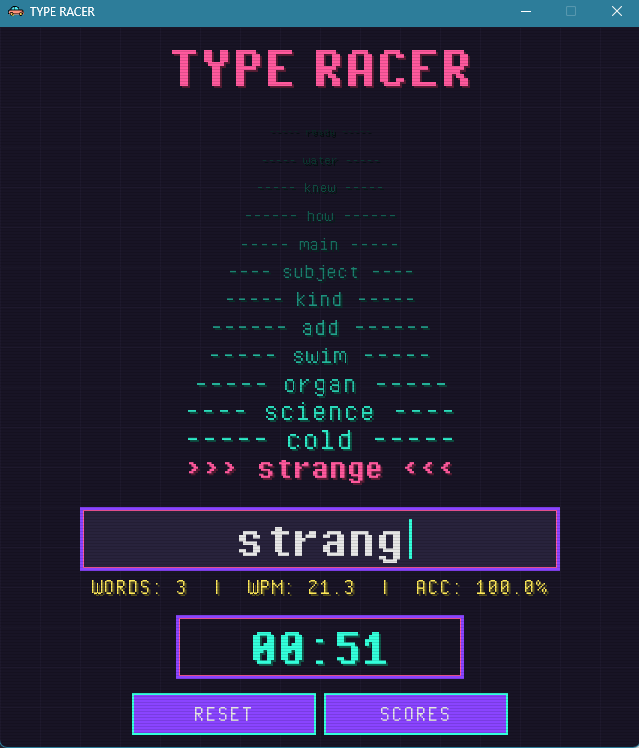
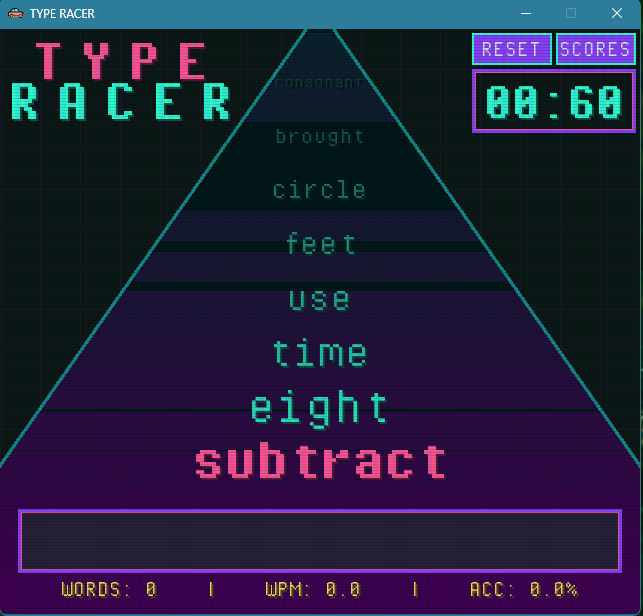
2025-11-16

diff --git a/src/game.py b/src/game.py
@@ -23,7 +23,7 @@ BASE_HEIGHT = 586
 FPS = 30
 
 # Retro green phosphor CRT colors
-CRT_BLACK = (10, 12, 10)
+CRT_BLACK = (20, 24, 20)
 CRT_GREEN = (51, 255, 51)
 CRT_GREEN_DIM = (20, 120, 20)
 CRT_GREEN_BRIGHT = (102, 255, 102)
@@ -31,7 +31,7 @@ CRT_AMBER = (255, 176, 0)
 CRT_AMBER_DIM = (153, 102, 0)
 
 # Alternative retro palette
-RETRO_BG = (24, 20, 37)
+RETRO_BG = (12, 26, 24)
 RETRO_BLUE = (76, 132, 255)
 RETRO_PINK = (255, 89, 157)
 RETRO_PURPLE = (138, 68, 255)
@@ -280,7 +280,7 @@ class TypeRacerGame:
             cursor.execute('''
                 SELECT wpm, accuracy, words_typed, date_time
                 FROM scores
-                ORDER BY date_time DESC
+                ORDER BY wpm DESC
                 LIMIT 20
             ''')
             return cursor.fetchall()
@@ -490,21 +490,23 @@ class TypeRacerGame:
         """Draw the road of upcoming words with retro 3D perspective effect - bottom to top"""
 
         mod = global_mod.current
-        road_w = INPUT_BOX_WIDTH // 2 - 2
-        road_h = 480
+        road_w = BASE_WIDTH // 1.5
+        road_h = BASE_HEIGHT
         road_y = -4
 
         pts = [
-            (BASE_WIDTH // 2 - 10, road_y),
+            (BASE_WIDTH // 2 - 12, road_y),
             (BASE_WIDTH // 2 - road_w, road_h),
-            (BASE_WIDTH // 2 + road_w, road_h),
+            (BASE_WIDTH // 2 + road_w - 2, road_h),
             (BASE_WIDTH // 2 + 10, road_y),
         ]
 
-        t = pygame.time.get_ticks()
 
-        bottom_color = (48, 0, 84)
-        top_color = (2, 33, 24)
+        t = pygame.time.get_ticks()
+        pygame.draw.polygon(self.screen, (0, 24, 26), pts)
+
+        bottom_color = (64, 0, 84)
+        top_color = (12, 33, 45)
 
         w = BASE_WIDTH
         h = road_h - road_y
@@ -514,10 +516,12 @@ class TypeRacerGame:
 
         grad = pygame.Surface((w, h), pygame.SRCALPHA)
 
-        speed = 12
-        scroll = (t * speed // 1000) % band_height
+        speed = 28
+        scroll = (t * speed // 3600)
+
 
         for i in range(band_count):
+            rando = int(random.random() * 24)
             tcol = i / (band_count - 1)
             r = int(top_color[0] * (1 - tcol) + bottom_color[0] * tcol)
             g = int(top_color[1] * (1 - tcol) + bottom_color[1] * tcol)
@@ -525,10 +529,11 @@ class TypeRacerGame:
 
             # perspective exaggeration per band
             # deeper bands move faster
-            offset = (mod + scroll * (i - 1) // 2) % band_height
+            offset = (mod + scroll * (1 - i) // 2) % band_height
 
             y0 = i * band_height + offset
-            grad.fill((r, g, b, 255), pygame.Rect(0, y0, w, band_height))
+
+            grad.fill((r, g, b), pygame.Rect(0, y0 + offset + mod, w, min(48, max(12, band_height - offset // 2 - mod + rando))))
 
         # mask polygon
         mask = pygame.Surface((w, h), pygame.SRCALPHA)
@@ -538,7 +543,9 @@ class TypeRacerGame:
         grad.blit(mask, (0, 0), special_flags=pygame.BLEND_RGBA_MULT)
 
         self.screen.blit(grad, (0, road_y))
-        pygame.draw.polygon(self.screen, (80, 70, 92), pts, 2)
+
+
+        pygame.draw.polygon(self.screen, (20, 140, 140), pts, 4)
 
         words = self.get_upcoming_words(8)
 
@@ -678,11 +685,11 @@ class TypeRacerGame:
     def draw_title(self):
         """Draw retro game title"""
         mod = int(global_mod.current // 12)
-        self.draw_retro_text("T Y P E", self.font_title, TITLE_COLOR, 36 + mod,
-                             TITLE_Y - int(global_mod.current // 12))
+        self.draw_retro_text("T Y P E", self.font_title, TITLE_COLOR, 32 + mod,
+                             TITLE_Y - 4 - int(global_mod.current // 12))
 
-        self.draw_retro_text("R A C E R", self.font_title, TITLE_COLOR2, 12 + mod,
-                             TITLE_Y + 48 + int(global_mod.current // 12))
+        self.draw_retro_text("R A C E R", self.font_title, TITLE_COLOR2, 8 + mod,
+                             TITLE_Y + 36 + int(global_mod.current // 12))
 
     def draw_game_over(self):
         """Draw game over overlay"""
@@ -899,8 +906,8 @@ class TypeRacerGame:
         else:
 
             # Draw game elements
-            self.draw_title()
             self.draw_road()
+            self.draw_title()
             self.draw_input_box()
             self.draw_stats()
             self.draw_timer()
